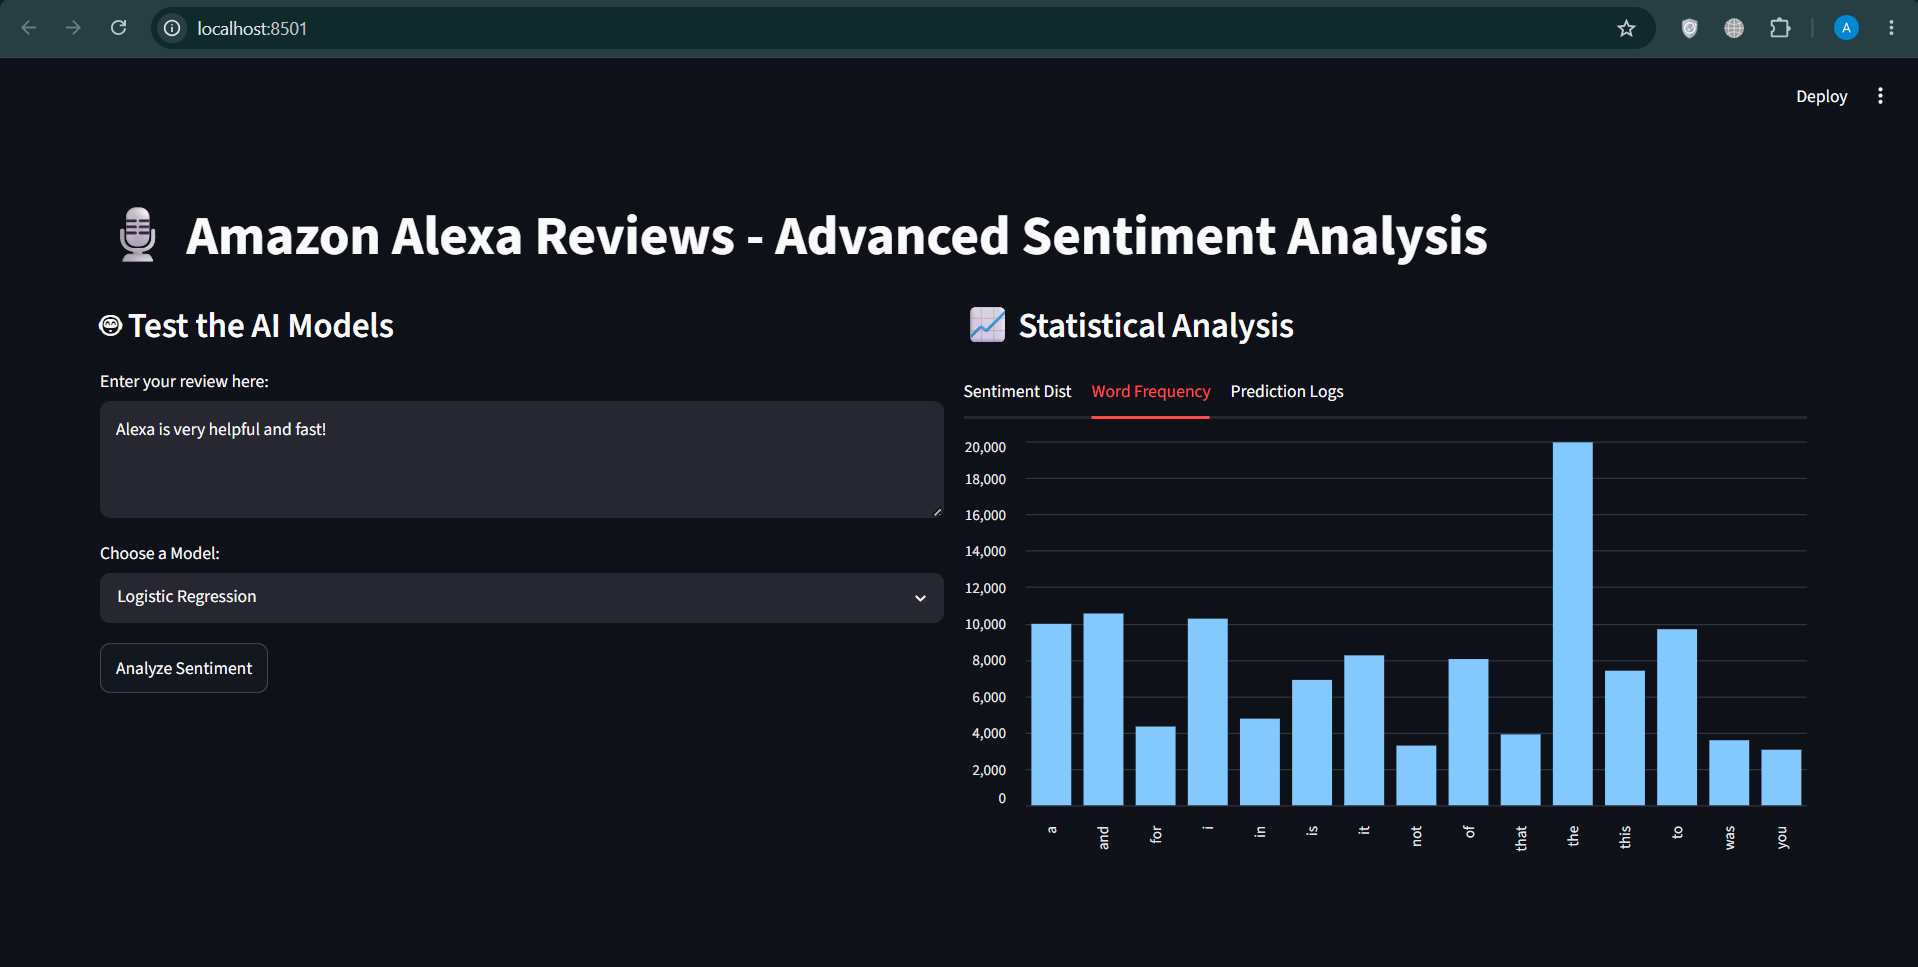
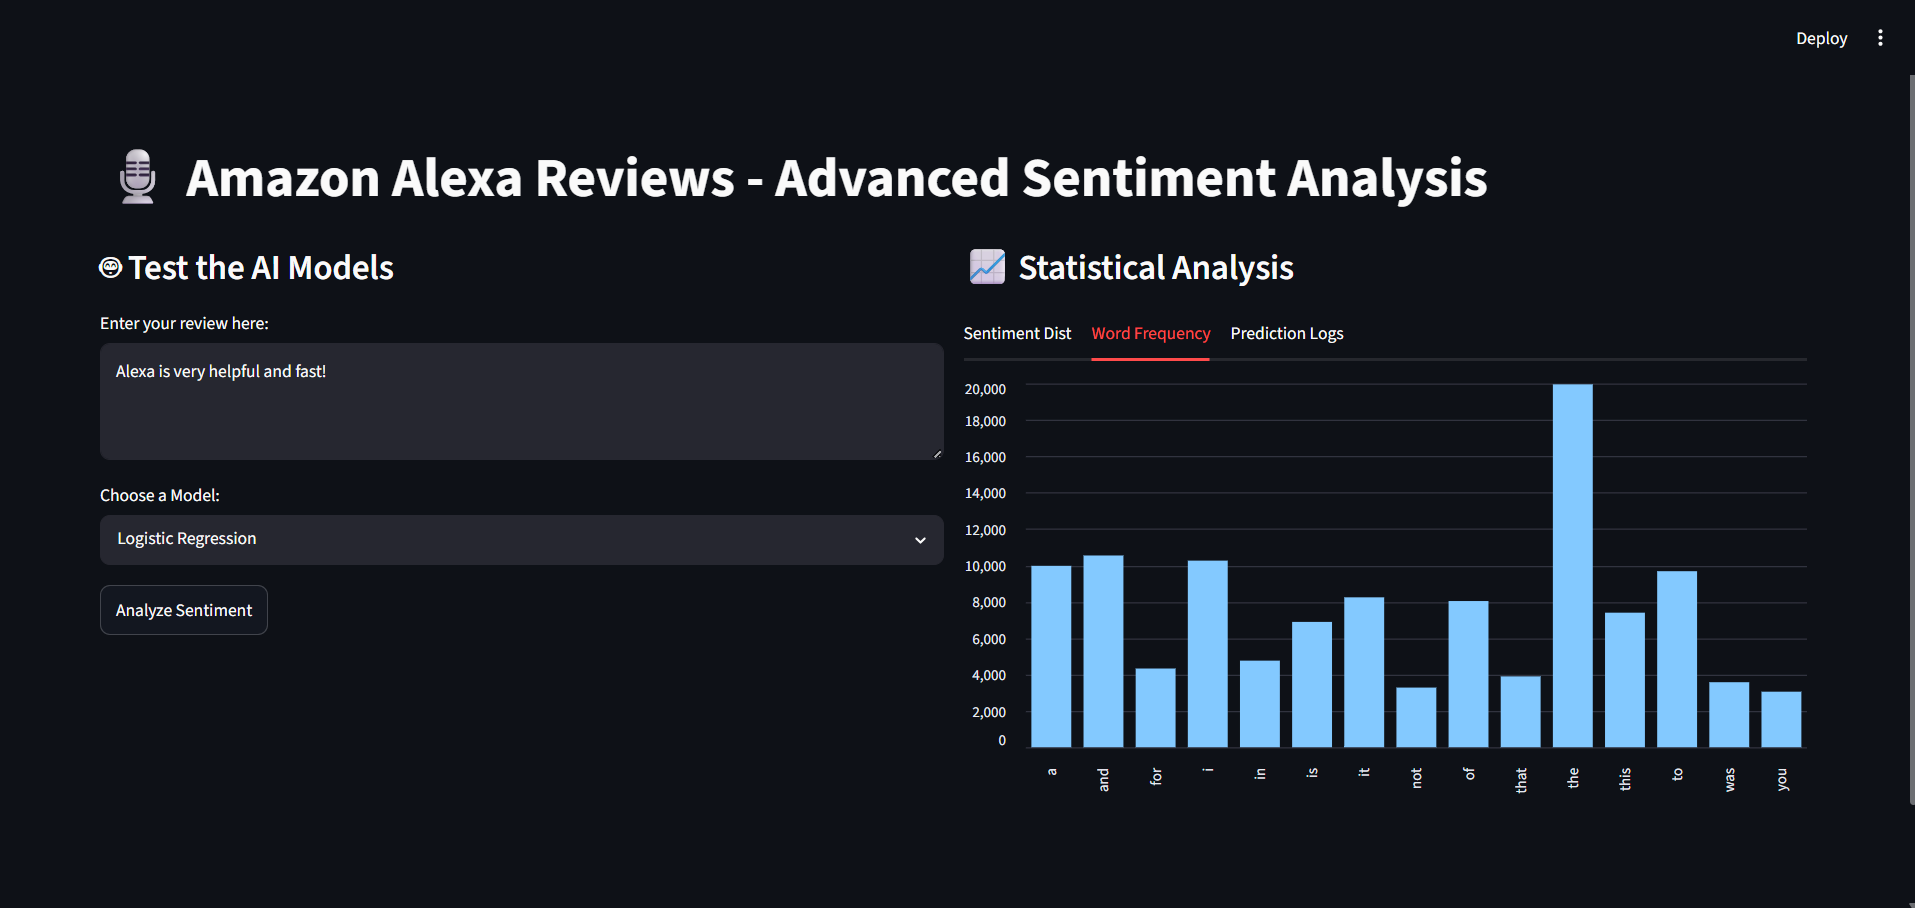
docs: add 5 comprehensive dashboard screenshots to README

Changed region(s): [[0.0308, 0.1542, 0.9551, 0.8634], [0.0, 0.0, 1.0, 0.0617], [0.9243, 0.0925, 1.0, 0.8943]]

diff --git a/README.md b/README.md
@@ -1,37 +1,45 @@
-# 🎙️ Amazon Alexa Reviews - Sentiment Analysis Dashboard
+# 🎙️ Amazon Alexa Reviews - End-to-End Sentiment Analysis Dashboard
 
-## Project Overview
-This project is an end-to-end Natural Language Processing (NLP) system designed to automatically classify Amazon customer reviews into Positive or Negative sentiments. It features a complete pipeline including data extraction from massive datasets, SQL database storage, machine learning model training, and an interactive web dashboard.
+## 1. System Design (Sistem Tasarımı)
+This project is an end-to-end NLP pipeline. It reads raw data, processes text, trains multiple machine learning models, stores predictions in an SQLite database, and serves an interactive web dashboard using Streamlit.
 
-## Key Features
-* **Efficient Data Processing:** Reads and processes large-scale compressed datasets (`.bz2`) using stream processing to optimize memory usage.
-* **SQL Database Integration:** Stores processed text data and sentiment labels into a lightweight SQLite database (`amazon_reviews.db`) for robust data management.
-* **Machine Learning Pipeline:** Utilizes TF-IDF vectorization for text representation and trains two distinct models for comparison: **Logistic Regression** and **Random Forest Classifier**.
-* **Interactive Dashboard:** A Streamlit-based web application that visualizes data distribution and allows users to input custom reviews for real-time sentiment prediction.
+## 2. Dataset Description (Veri Seti Açıklaması)
+The dataset used is the **Amazon Alexa Reviews** dataset from Kaggle. It contains real customer reviews and sentiment labels (Positive/Negative). A balanced subset of the data is extracted and converted into a querying format within an SQLite database.
 
-## Project Structure
-* `prepare_data.py`: Extracts a balanced subset of data from the raw `.bz2` file and initializes the SQLite database.
-* `train_models.py`: Connects to the SQL database, preprocesses the text, trains the ML models, and exports them as `.pkl` files.
-* `app.py`: The main Streamlit application script that loads the database and models to serve the user interface.
+## 3. Model Selection Rationale (Model Seçim Gerekçesi)
+To compare different mathematical approaches to text classification, three specific models were chosen:
+* **Logistic Regression:** A strong baseline for binary text classification.
+* **Naive Bayes:** Highly effective for term frequency (TF-IDF) probabilistic classification.
+* **Support Vector Machine (SVM):** Excellent for finding hyperplanes in high-dimensional vector spaces.
 
-## How to Run the Project
+## 4. Training Process (Eğitim Süreci)
+1. **Text Cleaning:** Removed punctuation and converted to lowercase.
+2. **Stopword Removal & Tokenization:** Handled natively via `TfidfVectorizer` (`stop_words='english'`).
+3. **Feature Extraction:** Transformed textual data into numerical vectors using **TF-IDF**.
+4. **Data Splitting:** 80% Training, 20% Testing.
+
+## 5. Evaluation Results (Değerlendirme Sonuçları)
+Models were evaluated using Accuracy, Precision, Recall, F1-Score, and Confusion Matrix metrics via `classification_report`. 
+*(Note: Real-time accuracy comparisons are dynamically displayed in the Dashboard's 'Model Comparison' tab).*
+
+## 6. Installation Instructions (Kurulum Talimatları)
 1. **Prepare the Data & Database:**
    ```bash
    python prepare_data.py
-2. **Train the ML Models:**
-   ```bash
-   python train_models.py
-3. **Launch the Dashboard:**
-   ```bash
-   python -m streamlit run app.py
 
-## Dashboard Screenshots
+## 7. Dashboard Screenshots (Gösterge Paneli Ekran Görüntüleri)
 
-### 1. Main Sentiment Analysis Interface
+### 1. Main Sentiment Analysis Interface (Ana Tahmin Arayüzü)
 ![Sentiment Analysis Interface](dashboard.png)
 
-### 2. Statistical Analysis & Word Frequency
-![Statistical Analysis](dashboard2.png)
+### 2. Model Comparison - Accuracy Chart (Model Karşılaştırma Grafiği)
+![Model Comparison](dashboard2.png)
 
-### 3. Real-Time Prediction Logs
-![Prediction Logs](dashboard3.png)
+### 3. Word Frequency - Top 15 Words (Kelime Frekans Analizi)
+![Word Frequency](dashboard3.png)
+
+### 4. Real-time Prediction Logs (SQL) (Anlık Tahmin Kayıtları)
+![Prediction Logs](dashboard4.png)
+
+### 5. System Overview & Tabs (Sistem Genel Görünümü ve Sekmeler)
+![System Overview](dashboard5.png)